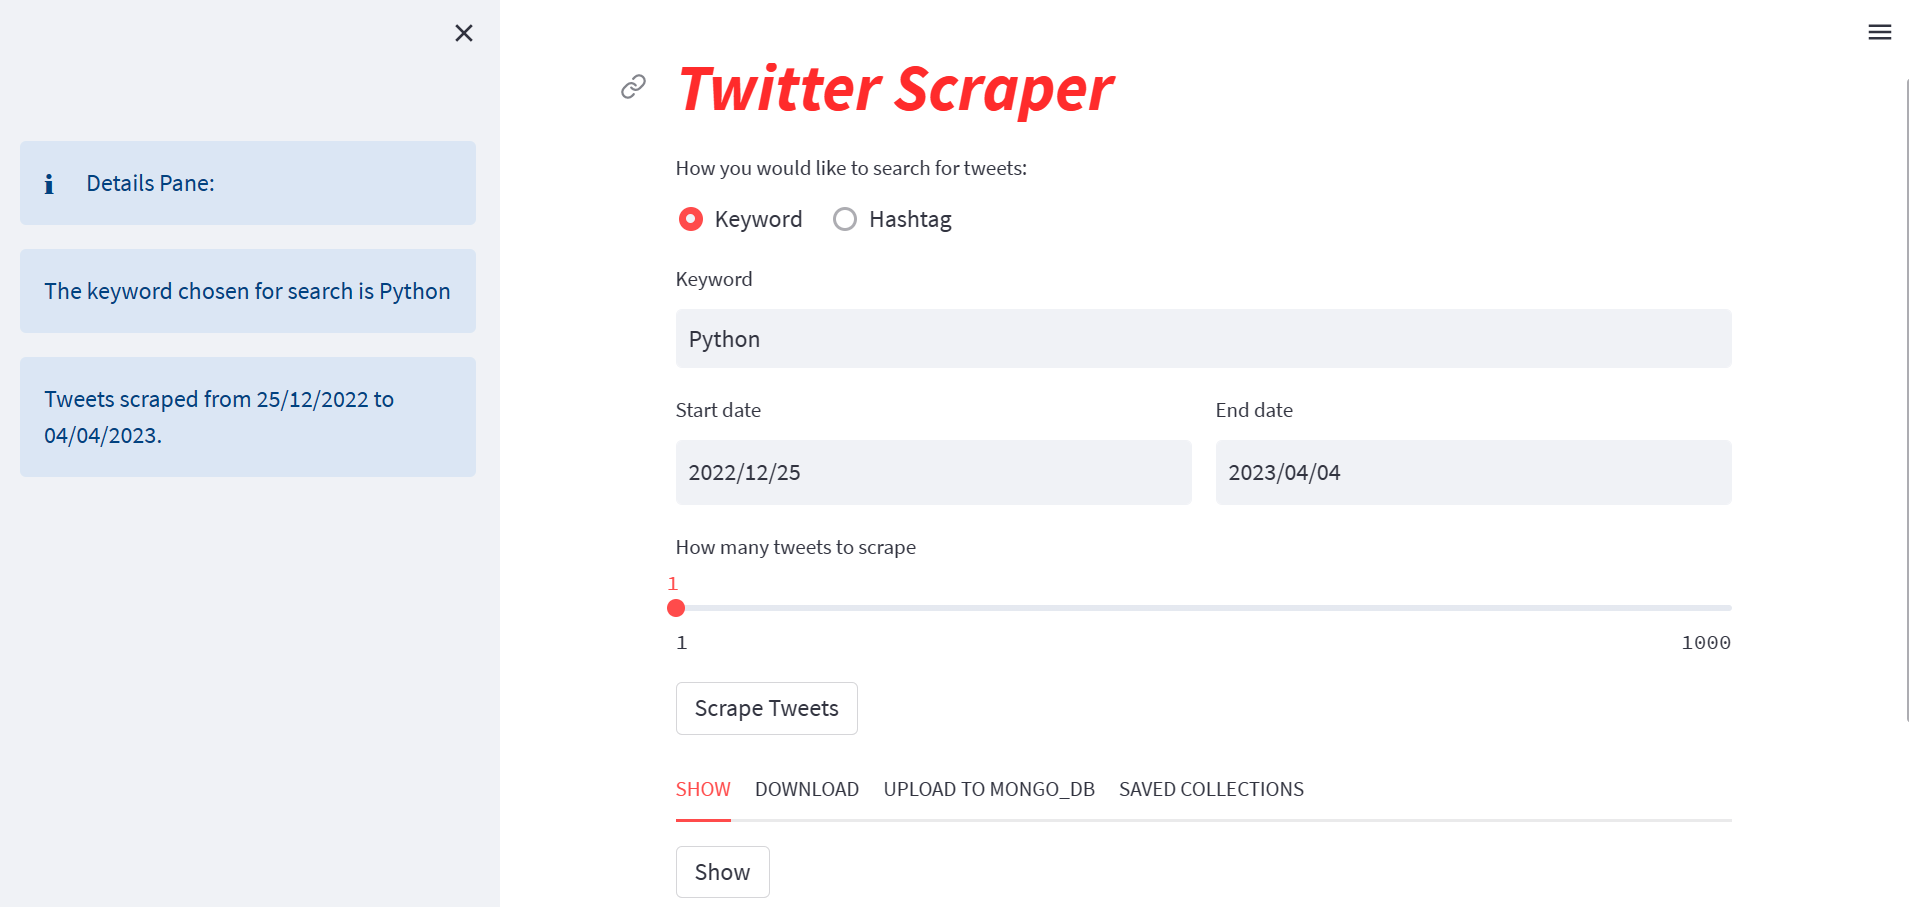
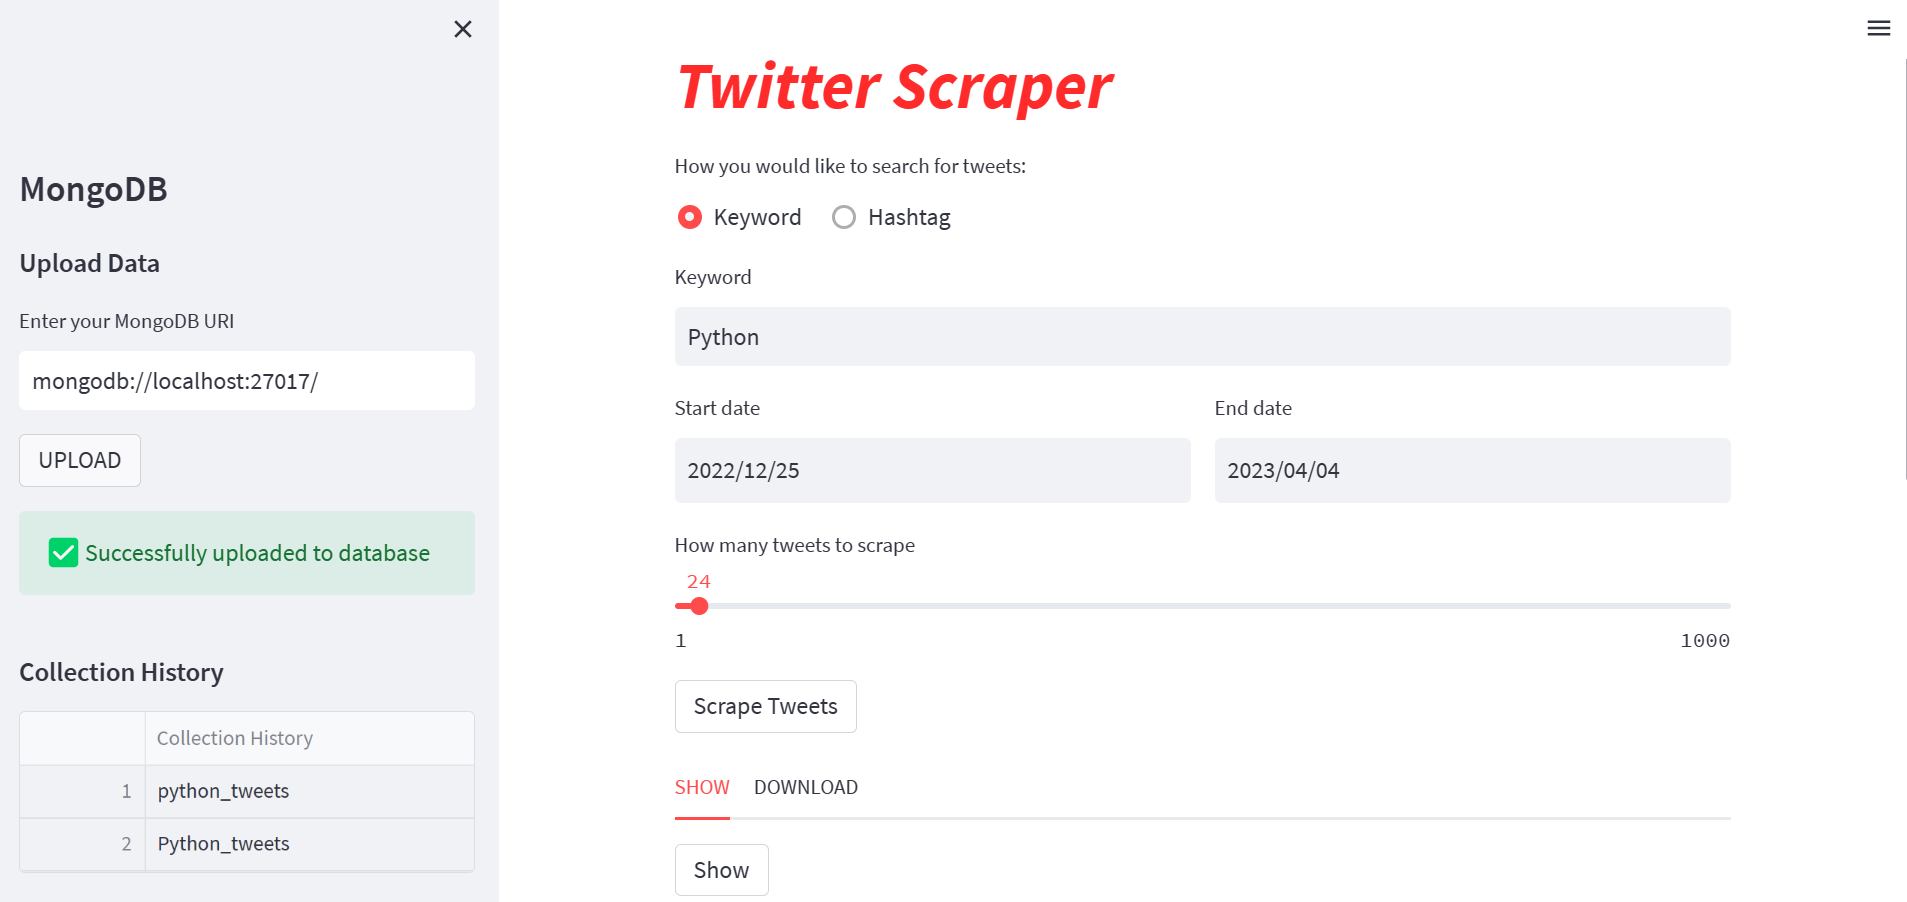
Image added, readme modified and .py modified aa bit

diff --git a/twitter_scraping.py b/twitter_scraping.py
@@ -21,9 +21,6 @@ st.title('_:red[Twitter Scraper]_')
 
 # Required variables:
 
-client = pymongo.MongoClient("mongodb://localhost:27017/")        # To connect to MongoDB
-mydb = client["Twitter"]                                          # To create a database
-
 option = st.radio('How you would like to search for tweets:',('Keyword', 'Hashtag'), horizontal = True)
 
 if option == "Keyword":
@@ -89,10 +86,11 @@ else:
 
 tweets_df = pd.DataFrame(tweets_list, columns = (["Datetime", "User_ID", "Username", "Language", "TweetContent",
                                                   "Source", "URL", "LikeCount", "RetweetCount", "ReplyCount"]))
+tweets_df.index = range(1, len(tweets_df) + 1)
 
-# Creating 4 tabs to carry out 4 different actions with the data scrapped:
+# Creating 2 tabs to carry out 2 different actions with the data scrapped:
 
-show, download, upload, saved = st.tabs(["SHOW", "DOWNLOAD", "UPLOAD TO MONGO_DB", "SAVED COLLECTIONS"])
+show, download = st.tabs(["SHOW", "DOWNLOAD"])
 
 # Displaying scraped data stored in dataframe:
 
@@ -116,40 +114,42 @@ with download:
 
 # Uploading the scraped data into MongoDB:
 
-with upload:
-    if st.button('UPLOAD TO MONGO_DB'):
-        
-        # Set the scraped word, date and data
-        scraped_word = word
-        scraped_date = tday.strftime('%d/%m/%Y')
-        scraped_data = tweets_df.to_dict("records") 
+with st.sidebar:
+    st.write('# MongoDB')
+    st.write('### Upload Data')
 
-        # Create a dictionary with the scraped data
-        scraped_doc = {'Scraped Word': scraped_word,
-                       'Scraped Date': scraped_date,
-                       'Scraped Data': scraped_data}
-        # creating new collection
+    # Set the scraped word, date and data
+    scraped_word = word
+    scraped_date = tday.strftime('%d/%m/%Y')
+    scraped_data = tweets_df.to_dict("records") 
+
+    # Create a dictionary with the scraped data
+    scraped_doc = {'Scraped Word': scraped_word,
+                    'Scraped Date': scraped_date,
+                    'Scraped Data': scraped_data}
+    
+    uri = st.text_input('Enter your MongoDB URI', 'mongodb://localhost:27017/')
+    upload = st.button("UPLOAD")
+
+    # --- Initialising SessionState ---
+    
+    if "upload_state" not in st.session_state:
+        st.session_state.upload_state = False
+
+    if upload or st.session_state.upload_state:
+        st.session_state.upload_state = True
+
+        client = pymongo.MongoClient(uri)
+        mydb = client["Twitter"]
         collection = mydb[f'{word}_tweets']
+        collection.insert_one(scraped_doc)
+        st.success('Successfully uploaded to database', icon="✅")
 
-        if scraped_data:
-            collection.insert_one(scraped_doc)
-            st.success('Successfully uploaded to database', icon="✅")
-        else:
-            st.error('Can\'t upload to database as no tweets scraped.', icon="⚠")
-
-# Displaying already saved files:
-
-with saved:
-    st.write('Uploaded Datasets: ')
-    for i in mydb.list_collection_names():
-        collection = mydb[i]        
-        if st.button(i):            
-            df = pd.DataFrame(list(collection.find()))
-            st.dataframe(df)
-
-# Creating sidebar to display essential infos:
-
-with st.sidebar:   
-    st.info('Details Pane:', icon = "ℹ")
-    st.info(f'The {option.lower()} chosen for search is {word}')
-    st.info(f"Tweets scraped from {start.strftime('%d/%m/%Y')} to {end.strftime('%d/%m/%Y')}.") 
+with st.sidebar:
+    client = pymongo.MongoClient(uri)
+    mydb = client["Twitter"]
+    collection_history = pd.DataFrame(mydb.list_collection_names(), columns=["Collection History"])[::-1]
+    collection_history.index = range(1, len(collection_history) + 1)
+    st.write("\n\n")
+    st.markdown('### Collection History')
+    st.dataframe(collection_history, use_container_width=True)

diff --git a/README.md b/README.md
@@ -1,14 +1,15 @@
 # Twitter scraping web app
 
-Twitter is a powerful platform for accessing real-time information, and it can be a valuable source of data for a variety of applications. However, collecting and analyzing data from Twitter can be a challenging task, especially for those without specialized technical skills. In this context, a web app that simplifies the process of scraping Twitter data and provides useful features for analyzing and visualizing the data can be a useful tool for researchers, journalists, businesses, and individuals. This is an open source web app that allows you to scrape tweets from Twitter using the snscrape library, visualize the data using Streamlit and upload the scraped content to Mongo DB for future usage. It has been developed by me, Nirmal Kumar, a data science enthusiast and Python developer. The app is intended for educational and research purposes only, and should not be used for any commercial or unethical activities.
+Twitter is a powerful platform for accessing real-time information, and it can be a valuable source of data for a variety of applications. However, collecting and analyzing data from Twitter can be a challenging task, especially for those without specialized technical skills. In this context, a web app that simplifies the process of scraping Twitter data and provides useful features for analyzing and visualizing the data can be a useful tool for researchers, journalists, businesses, and individuals. This is an open source web app that allows you to scrape tweets from Twitter using the snscrape library, visualize the data using Streamlit and upload the scraped content to Mongo DB for future usage. It has been developed by me, Nirmal Kumar, a Data science enthusiast and Python developer. The app is intended for educational and research purposes only, and should not be used for any commercial or unethical activities.
 
 ## Prerequisites
 
 Before you begin, you will need to have a few tools installed on your machine:
 
-* Python 3.7 or higher. [Note: Streamlit only supports .py files as of now. So, notebook(.ipynb) files are not recommended]
-* The snscrape, pandas and streamlit, pymongo packages.
+* Python 3.7 or higher.
+    [Note: Streamlit only supports .py files as of now. So, notebook(.ipynb) files are not recommended]
 * MongoDB software.
+* The snscrape, pandas and streamlit, pymongo packages.
 
 ### Python
 
@@ -56,24 +57,27 @@ Scraping tweets using Streamlit is legal, but it is important to ensure that you
 5. You can also view your selected options under the **Details Pane:** in the sidebar to ensure accuracy.
 6. Select number of tweets to scrape
 7. Click on the **Scrape Tweets** button
-8. Use the four tabs – **SHOW**, **DOWNLOAD**, **UPLOAD TO MONGO_DB**, **SAVED COLLECTIONS** – to carry out operations on the scrapped data
+8. Use the two tabs – **SHOW**, **DOWNLOAD** – to view the scraped data then and there and you can download scraped tweets in .csv or .json format
+9. In the sidebar  you can  **UPLOAD DATA TO MONGO_DB**  and you can view the **COLLECTIONS HISTORY**
 
 ## Developer Guide
 
 To run the app, follow these steps:
 
-Clone the repository to your local machine using the following command: git clone [repository URL].
-Install the required libraries by running the following command: pip install -r requirements.txt.
-Open the twitter_scraper.py file in a code editor.
-Open a terminal window and navigate to the directory where the app is located using the following command: cd [app directory].
-Run the command streamlit run twitter_scraper.py to start the app.
-The app should now be running on a local server. If it doesn't start automatically, you can access it by going to Local URL: [http://localhost:8501] or Network URL: [http://192.168.43.83:8501].
+    1. Clone the repository to your local machine using the following command: git clone [https://github.com/Nirmal7781/Twitter_scrapping.git].
+    2. Install the required libraries by running the following command: pip install -r requirements.txt.
+    3. Open the twitter_scraper.py file in a code editor.
+    4. Open a terminal window and navigate to the directory where the app is located using the following command: cd [.py file directory].
+    5. Run the command streamlit run twitter_scraper.py to start the app.
+    6. The app should now be running on a local server. If it doesn't start automatically, you can access it by going to either 
+        * Local URL: [http://localhost:8501] or * Network URL: [http://192.168.43.83:8501].
 
 To modify the app, you can:
-Add filters to the search results table to allow users to sort and filter the results.
-Add a visualization of the search results, such as a word cloud or a chart.
-Allow users to save their search queries for future use.
-Use machine learning algorithms to perform sentiment analysis on the tweets and display the results.
+
+    1. Add filters to the search results table to allow users to sort and filter the results.
+    2. Add a visualization of the search results, such as a word cloud or a chart.
+    3. Allow users to save their search queries for future use.
+    4. Use machine learning algorithms to perform sentiment analysis on the tweets and display the results.
 
 ## Potential Applications
 
@@ -84,10 +88,28 @@ Use machine learning algorithms to perform sentiment analysis on the tweets and 
 5. Academic research: A researcher can use the app to collect data from Twitter for academic studies, such as sentiment analysis or social network analysis.
 6. Political analysis: A political analyst can use the app to monitor public opinion on political issues and track the social media activity of political candidates and parties.
 
+## Potential issue with the app
+
+Before knowing about the issue let's know a bit about session_state in streamlit.
+
+    ### What is session state and why it came into picture?
+
+            Session state is a powerful feature in Streamlit that allows for the creation of dynamic and interactive apps with a more reactive user interface. Session state came into the picture because **Streamlit is a stateless framework**, which means that **each time a user interacts with the app, the entire script is re-executed from top to bottom**. This can lead to performance issues and can make it difficult to create interactive apps that rely on storing user data across multiple interactions.
+
+            To solve this problem, Streamlit introduced the session state feature, which allows the app to store and retrieve data across multiple interactions without the need to re-execute the entire script. This makes it easier to create dynamic and interactive apps that can respond to user input in real-time.
+
+            Thus, session state came into the picture to solve the problem of state management in stateless frameworks like Streamlit.
+
+Now the potential issue here is eventhough session_state is a powerful feature it's still under development and this could cause the app to rerun on its own from top to bottom even if we use session_state feature to prevent this action.
+
+## Web App Snap
+
+![Twitter Scraper](https://i.imgur.com/abc123.jpg)
+
 ## Disclaimer
 
 This application is intended for educational and research purposes only and should not be used for any commercial or unethical activities.
 
 ## Contact
 
-If you have any questions, comments, or suggestions for the app, please feel free to contact me at nirmal.works@outlook.com
+If you have any questions, comments, or suggestions for the app, please feel free to contact me at [nirmal.works@outlook.com]
